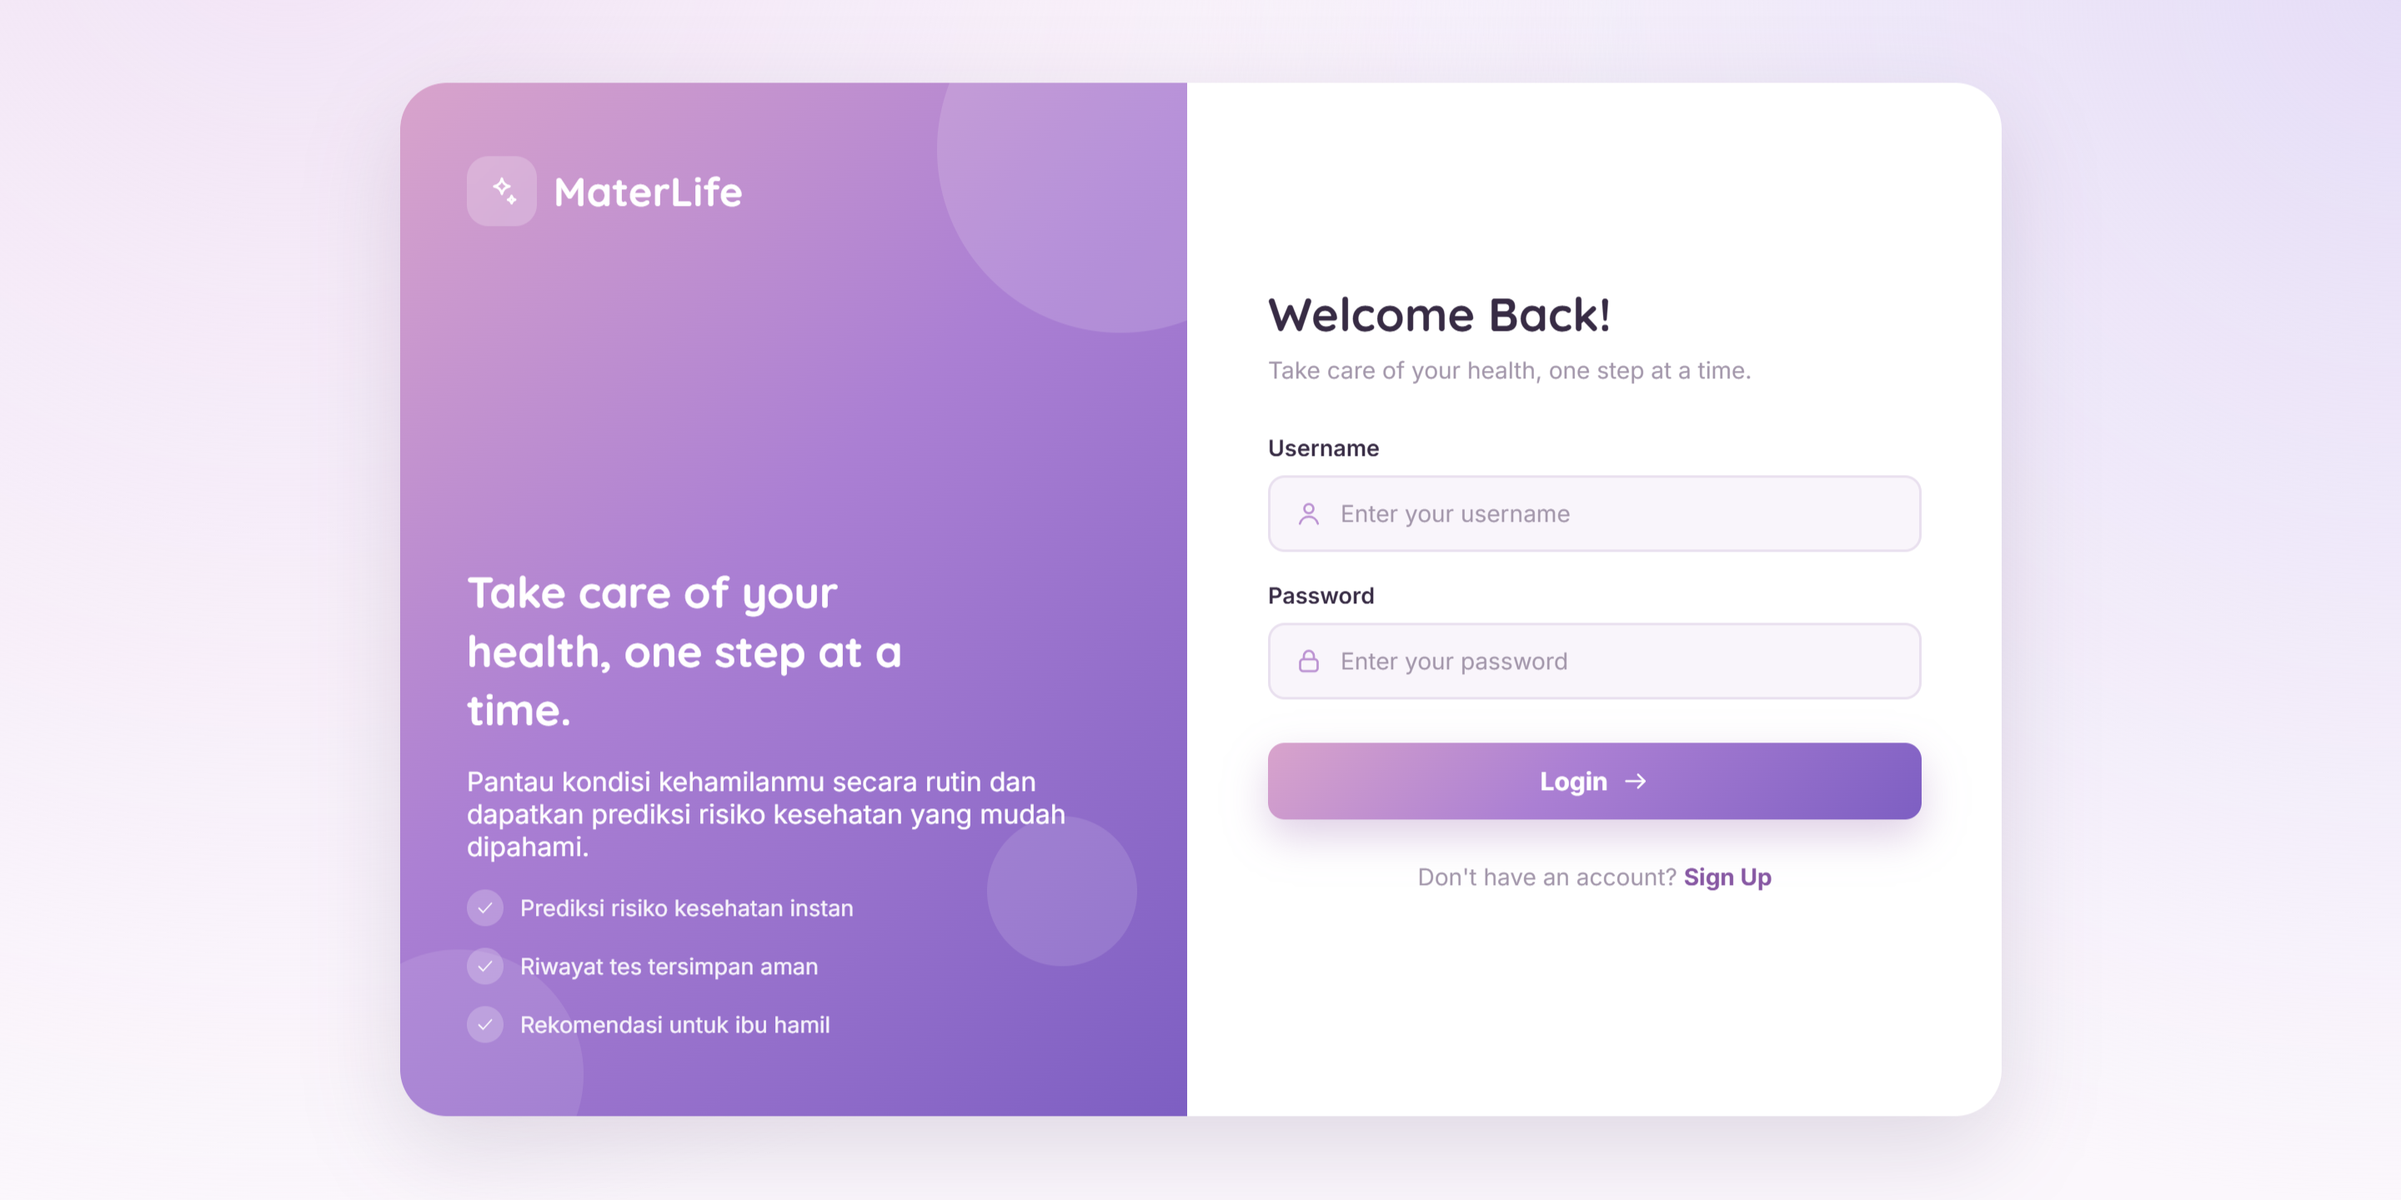
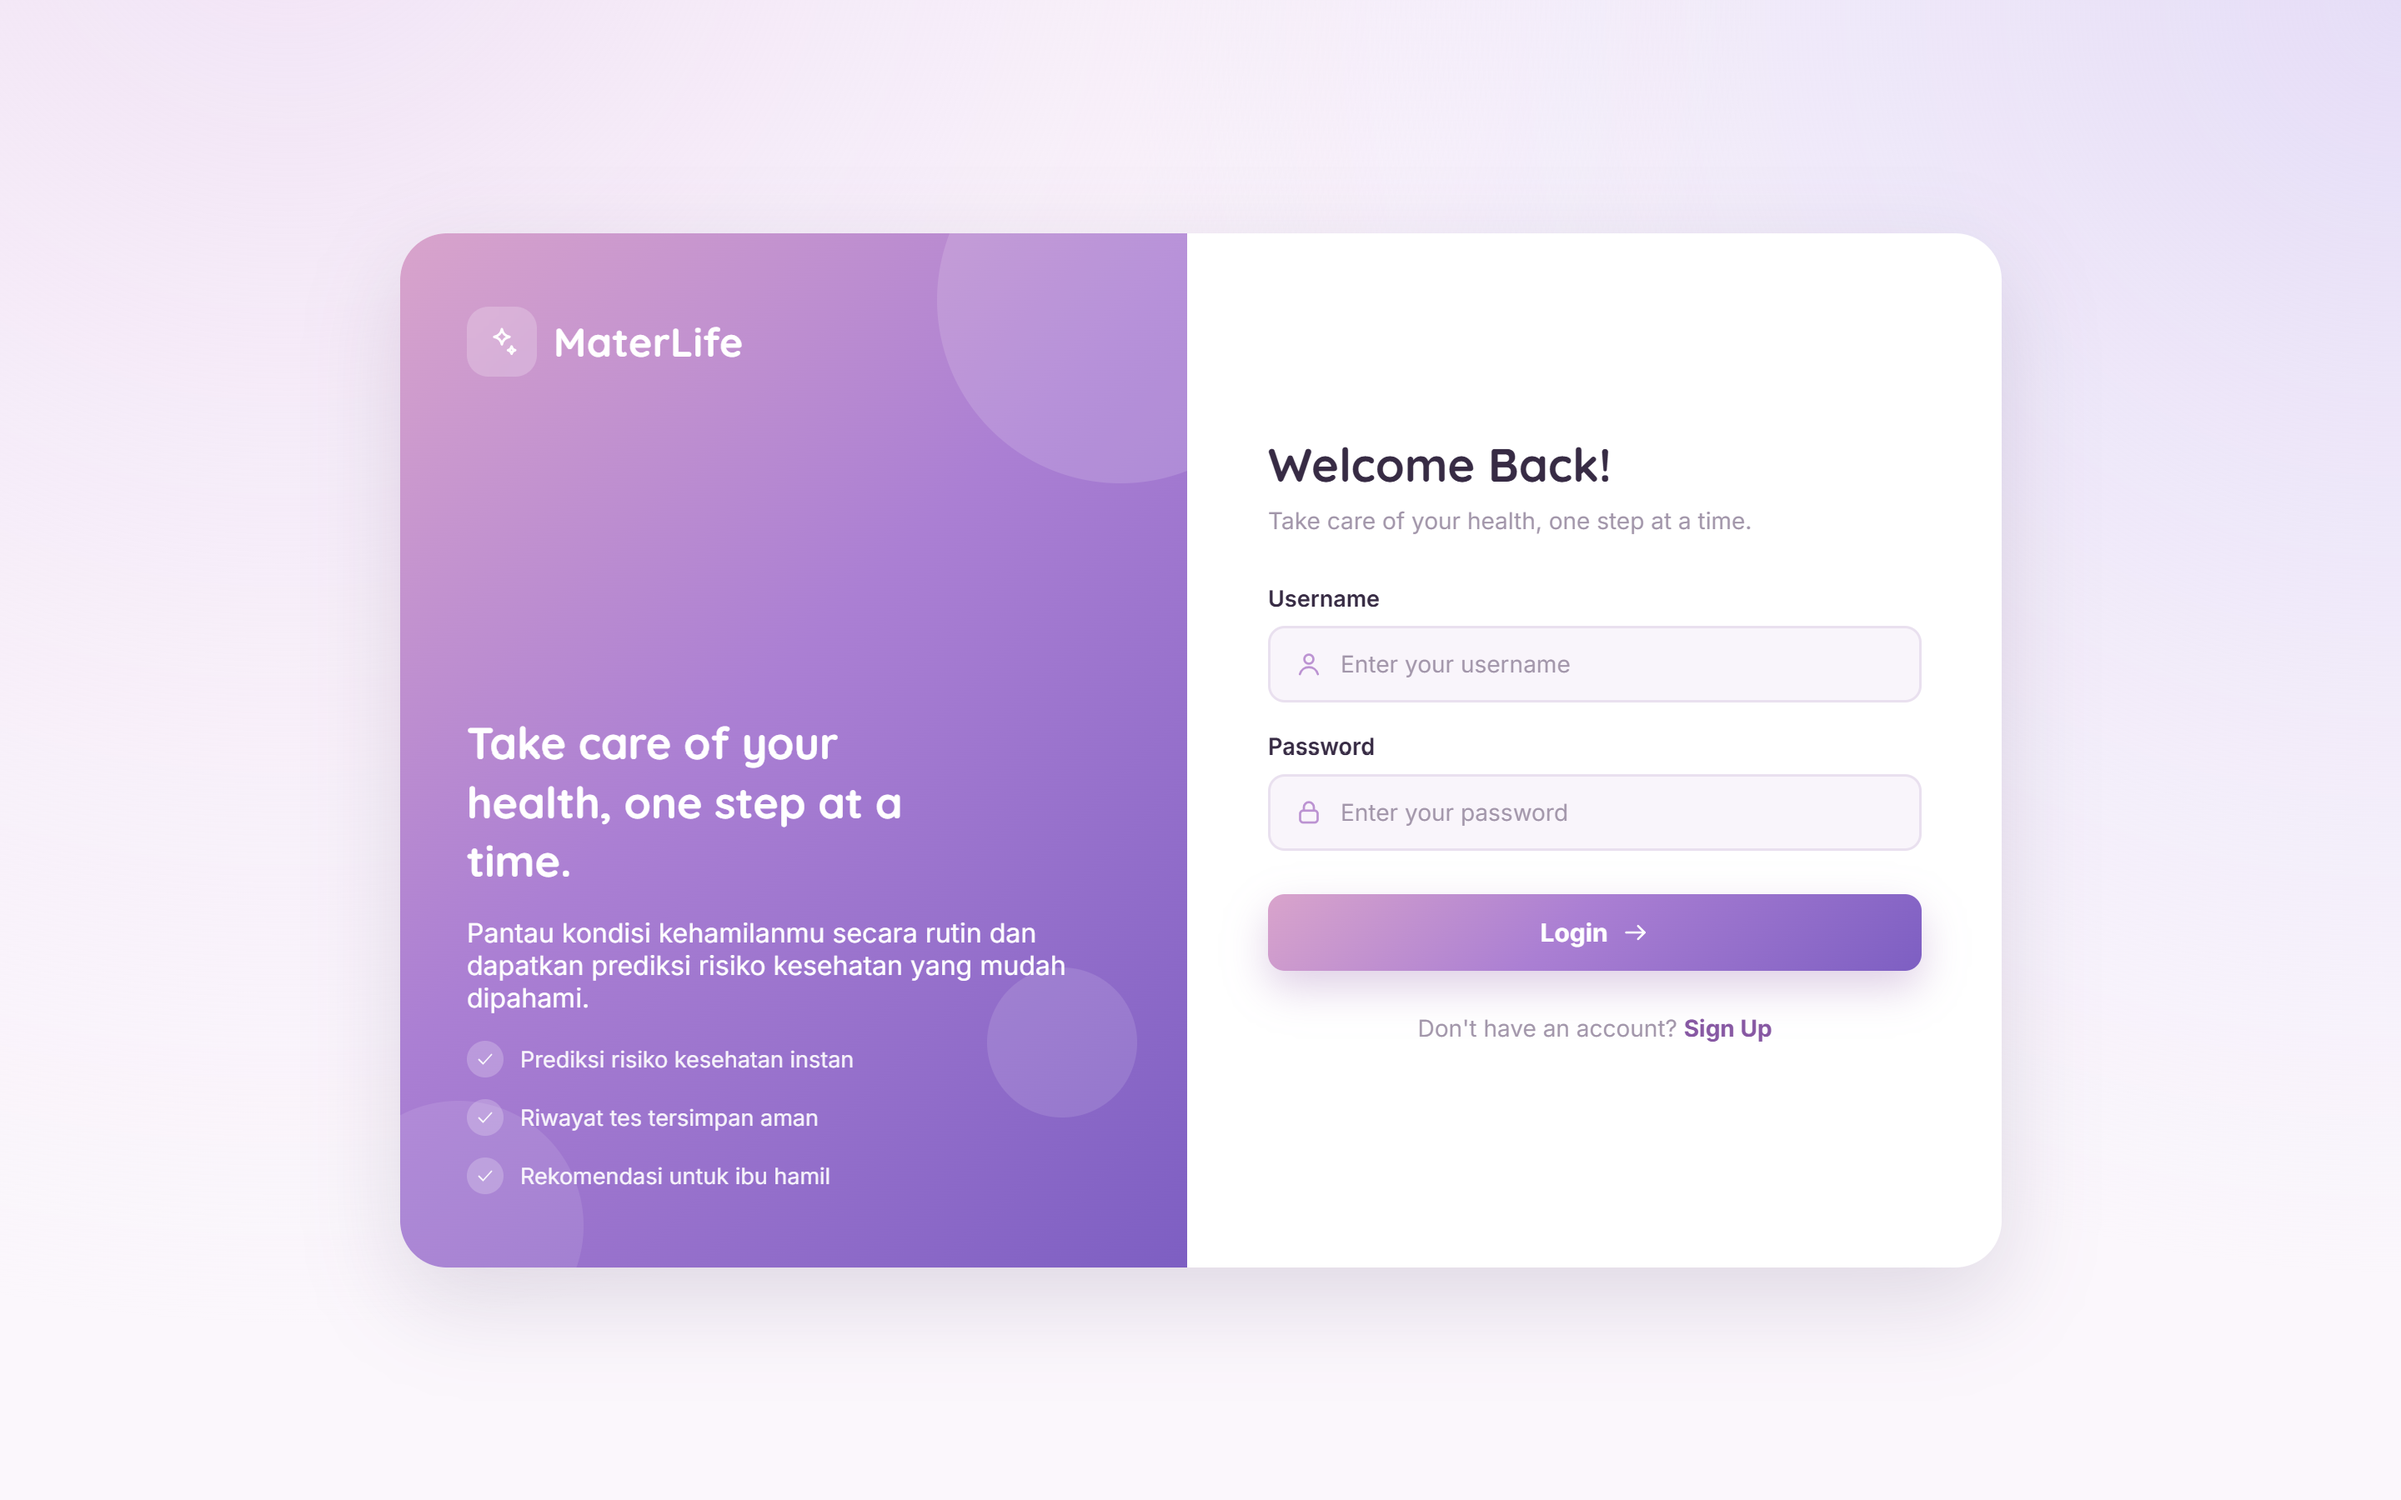
Update the edge of work and experience preview into round

diff --git a/app/globals.css b/app/globals.css
@@ -1292,6 +1292,7 @@ main {
   overflow: hidden;
   background: var(--surface-solid);
   border: 1px solid var(--line);
+  border-radius: 18px;
   opacity: 0.85;
   transition: 0.35s ease;
 }
@@ -1301,6 +1302,7 @@ main {
   height: 100%;
   display: block;
   object-fit: cover;
+  border-radius: 18px;
   transition: transform 0.5s ease;
 }
 
@@ -1349,17 +1351,21 @@ main {
 
 .experience-preview {
   position: relative;
-  width: 260px;
-  height: 330px;
+  width: 360px;
+  height: 230px;
   margin-top: 50px;
   overflow: hidden;
   background: var(--surface-soft);
+  border: 1px solid var(--line);
+  border-radius: 18px;
 }
 
 .experience-preview img {
   width: 100%;
   height: 100%;
+  display: block;
   object-fit: cover;
+  border-radius: 18px;
 }
 
 .preview-overlay {

diff --git a/app/page.tsx b/app/page.tsx
@@ -38,11 +38,11 @@ const projects = [
     number: "04",
     title: "E-Commerce Customer Churn Report",
     category: "DATA ANALYTICS",
-    image: "/project/churn-dashboard.png",
+    image: "/project/report.png",
     description:
       "A data analytics report exploring customer churn patterns, engagement behavior, and purchasing activity.",
     tech: ["Power BI", "Python", "Data Analysis"],
-    website: "#",
+    website: "https://www.overleaf.com/read/gtkwqzpcttyj#b6c893",
   },
 ];
 

diff --git a/components/header.tsx b/components/header.tsx
@@ -7,7 +7,7 @@ const navItems = [
   { label: "About", href: "#about", icon: "○" },
   { label: "Work", href: "#work", icon: "▦" },
   { label: "Experience", href: "#experience", icon: "◇" },
-  { label: "Skills", href: "#skills", icon: "✦" },
+  { label: "Tech Stack", href: "#skills", icon: "✦" },
   { label: "Contact", href: "#contact", icon: "↗" },
 ];
 
